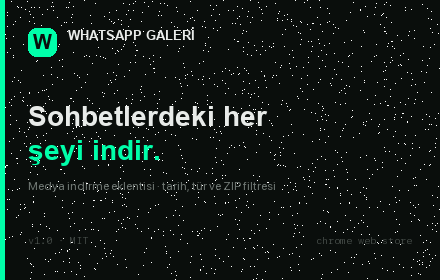
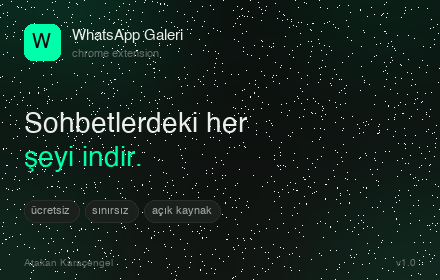
docs(store): redesign all store assets with browser mockups
- screenshot-1280x800.png: hero with WhatsApp Web mockup + popup
- screenshot-1/2/3-1280x800.png: feature-focused screens
- tile-440x280.png: compact hero with chips
- marquee-1400x560.png: wide promotional banner
- All using editorial brutalist design with mesh gradient bg
- Updated README with proper screenshot ordering

diff --git a/docs/store/README.md b/docs/store/README.md
@@ -1,23 +1,31 @@
 # Chrome Web Store Listing Materials
 
-Bu klasör Chrome Web Store'a yükleme için gereken tüm görselleri içerir.
-
 ## Görseller
 
 | Dosya | Boyut | Kullanım |
 |---|---|---|
-| `screenshot-1280x800.png` | 1280×800 | Mağaza listesi screenshot'ı (zorunlu, 1-5 adet) |
-| `tile-440x280.png` | 440×280 | Küçük tanıtım tile'ı (Mağaza arama sonuçları) |
-| `marquee-1400x560.png` | 1400×560 | Marquee tanıtım (opsiyonel, öne çıkan vitrin) |
+| `screenshot-1280x800.png` | 1280×800 | **Ana mağaza görseli** — hero: browser mockup + popup |
+| `screenshot-1-1280x800.png` | 1280×800 | Özellik: Tüm Medya Türleri |
+| `screenshot-2-1280x800.png` | 1280×800 | Özellik: Tarih & Tür Filtresi |
+| `screenshot-3-1280x800.png` | 1280×800 | Özellik: Tek ZIP veya Ayrı Ayrı |
+| `tile-440x280.png` | 440×280 | Küçük tanıtım tile'ı |
+| `marquee-1400x560.png` | 1400×560 | Marquee tanıtım (opsiyonel) |
 
 ## Kullanım
 
 1. [Chrome Web Store Developer Dashboard](https://chrome.google.com/webstore/devconsole/) → **Yeni öğe**
 2. ZIP'lenmiş eklentiyi yükle (kök klasörden, `.git` hariç)
 3. **Mağaza listesi** sekmesinde:
-   - **Açıklama** → `listing-en.md` veya `listing-tr.md` kullan
-   - **Screenshot** → `screenshot-1280x800.png`
+   - **Açıklama** → `listing.md` kullan (TR + EN)
+   - **Screenshot** → ilk 4 PNG'yi sırayla yükle
    - **Küçük tanıtım tile** → `tile-440x280.png`
    - **Marquee** → `marquee-1400x560.png`
 4. **Gizlilik uygulamaları** sekmesinde izinleri beyan et
 5. **İnceleme için gönder**
+
+## Screenshot sıralaması (Store'da)
+
+1. `screenshot-1280x800.png` — Ana hero (browser mockup)
+2. `screenshot-1-1280x800.png` — Tüm medya türleri
+3. `screenshot-2-1280x800.png` — Tarih ve tür filtresi
+4. `screenshot-3-1280x800.png` — ZIP ve derin tarama